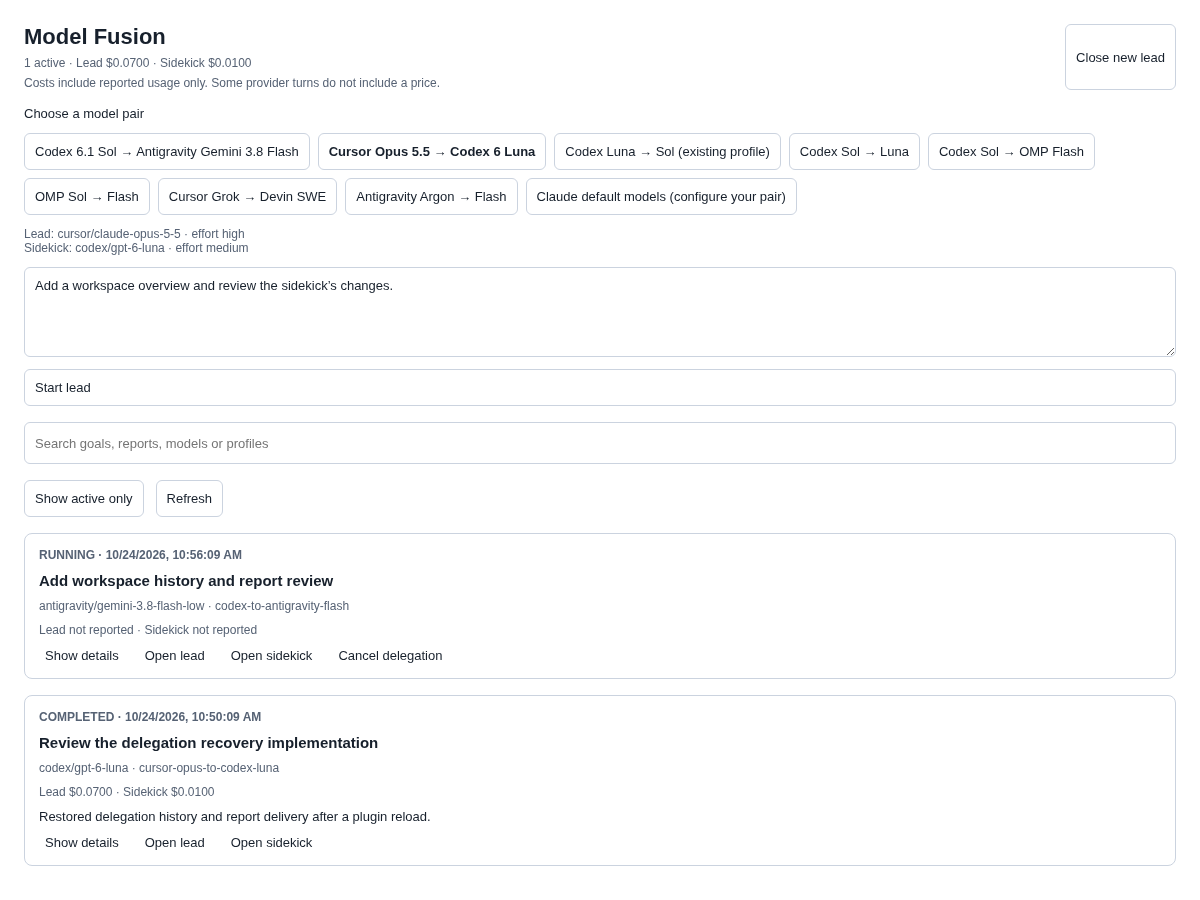
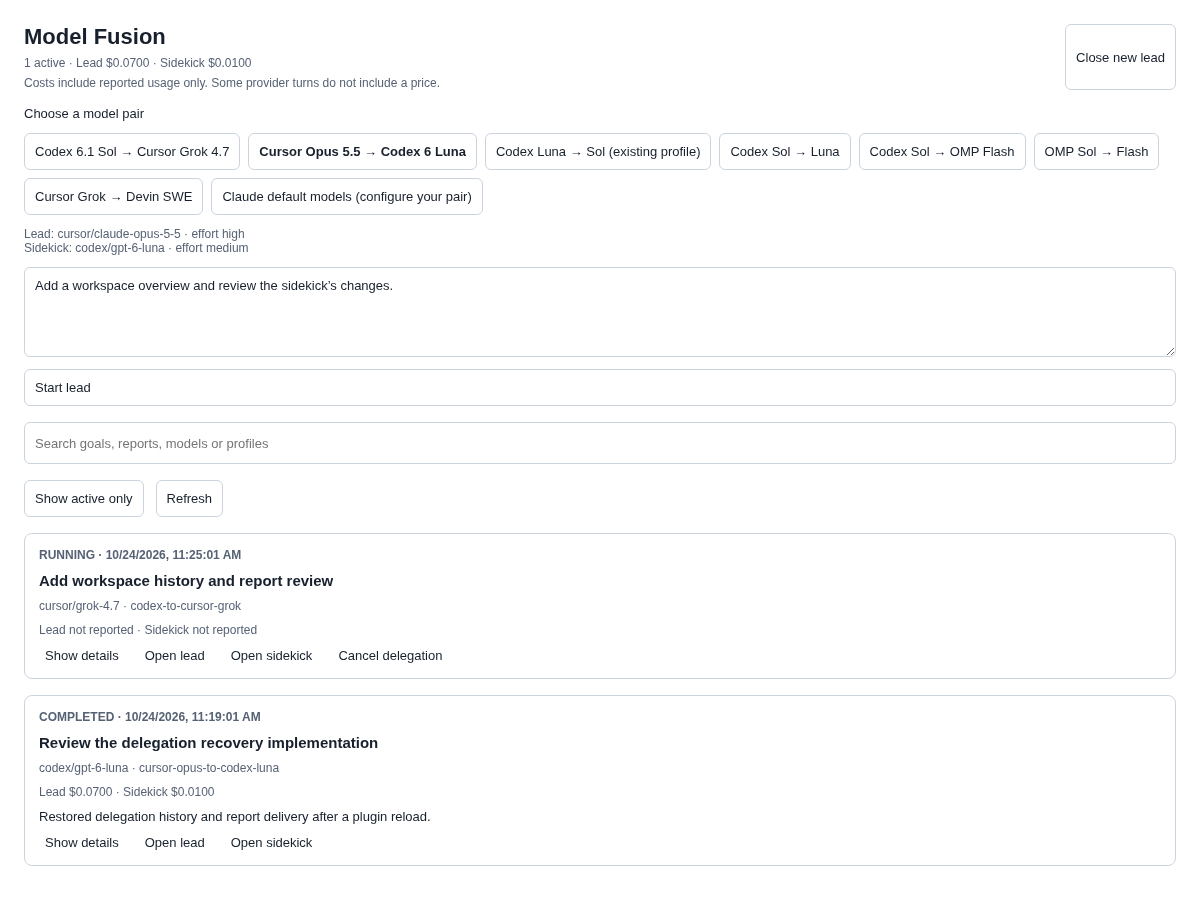
Keep Antigravity outside Fusion and default to Sol with Cursor Grok

diff --git a/index.server.ts b/index.server.ts
@@ -6,6 +6,7 @@ import { fusionSettings, DEFAULT_SETTINGS, BUILTIN_PROFILES, type FusionSettings
 import { delegateRpc, reportRpc, getSettingsRpc, getDelegationRpc, getWorkspaceRpc, createLeadRpc, delegationActionRpc } from "./shared/contracts";
 import { FusionState } from "./server/state";
 import { handleDelegation, handleSidekickReport, handleSidekickTurnEnded, recoverDelegations, publishDelegation, deliverReport, finishDelegation, checkProvider, modelConfig, markFinished, usesMcp, mcpToolPolicy } from "./server/orchestration";
+import { isAntigravity, requireFusionProvider, RETIRED_PROFILE_IDS } from "./shared/provider-policy";
 import { LABEL, isSidekick, isLead } from "./shared/labels";
 import { FusionMcpHttpServer } from "./server/mcp-server";
 import { getFencedBriefPrompt, parseFencedBrief } from "./server/fenced";
@@ -14,7 +15,9 @@ import { latestAssistantText, isMcpProviderRejection, timelineItem } from "./ser
 const MCP_PORT = Number(process.env.PASEO_MODEL_FUSION_PORT || 31337);
 const MCP_URL = "http://127.0.0.1:" + MCP_PORT + "/mcp";
 function withPresets(values: FusionSettings): FusionSettings {
-  return { ...values, profiles: [...new Map([...BUILTIN_PROFILES, ...values.profiles].map((profile) => [profile.id, profile])).values()] };
+  const allowed = values.profiles.filter((profile) => !isAntigravity(profile.lead) && !isAntigravity(profile.sidekick));
+  const profiles = [...new Map([...BUILTIN_PROFILES, ...allowed].map((profile) => [profile.id, profile])).values()];
+  return { ...values, profiles, default_profile: !RETIRED_PROFILE_IDS.includes(values.default_profile) && profiles.some((profile) => profile.id === values.default_profile) ? values.default_profile : DEFAULT_SETTINGS.default_profile };
 }
 export default function contribute(server: PluginServerContext) {
   const settingsHandle = server.registerSettings(fusionSettings);
@@ -55,6 +58,7 @@ export default function contribute(server: PluginServerContext) {
   async function delegate(paseo: PaseoApi, callerId: string, explicitId: string | undefined, brief: Parameters<typeof handleDelegation>[3]["brief"]) {
     await ready(paseo);
     const lead = await resolveLeadAgent(paseo, callerId, explicitId);
+    requireFusionProvider({ provider: lead.provider, model: lead.model });
     const profile = settings.profiles.find((item) => item.id === (lead.labels[LABEL.fusionProfile] || settings.default_profile));
     if (!profile || !lead.workspaceId) return { sidekickId: null, error: "The lead needs a workspace and Fusion profile" };
     return handleDelegation(paseo, lead.labels["fusion.transport"] === "fenced" ? { ...settings, use_mcp_delegation: false } : settings, state, {
@@ -80,7 +84,7 @@ export default function contribute(server: PluginServerContext) {
   const cleanups = [
     server.before("agent.create", async ({ request }, { paseo }) => {
       capture(paseo); await settingsReady;
-      if (!settings.enabled || !settings.use_mcp_delegation || request.config.internal ||
+      if (!settings.enabled || !settings.use_mcp_delegation || request.config.internal || isAntigravity({ provider: request.config.provider, model: request.config.model }) ||
         request.env?.PASEO_MODEL_FUSION_SIDEKICK === "1" || request.env?.PASEO_MODEL_FUSION_TEXT_ONLY === "1") return request;
       return { ...request, config: { ...request.config, mcpServers: {
         ...request.config.mcpServers, fusion: { type: "http", url: MCP_URL, alwaysLoad: true },
@@ -97,7 +101,7 @@ export default function contribute(server: PluginServerContext) {
       const snapshot = await paseo.agents.ref(event.agent.id).refresh();
       if (!snapshot) return;
       const agent = snapshot.agent;
-      if (!isLead(agent.labels) && !isSidekick(agent.labels)) return;
+      if ((!isLead(agent.labels) && !isSidekick(agent.labels)) || isAntigravity({ provider: agent.provider, model: agent.model })) return;
       const history = await paseo.agents.ref(agent.id).timeline.refetch({ direction: "tail", limit: 100 });
       const timeline = history.entries;
       const turnId = event.turnId || "timeline:" + history.epoch + ":" + history.entries.at(-1)?.seqEnd;

diff --git a/server/orchestration.ts b/server/orchestration.ts
@@ -1,4 +1,5 @@
 import { randomUUID } from "node:crypto";
+import { isAntigravity, requireFusionProvider, ANTIGRAVITY_POLICY_MESSAGE } from "../shared/provider-policy";
 import type { PaseoApi } from "./protocol-types";
 import type { FusionSettings, Profile, ProviderModel } from "../shared/settings";
 import { BriefSchema, ReportSchema, isActive, type Brief, type Report } from "../shared/models";
@@ -11,6 +12,7 @@ import { latestAssistantText } from "./timeline";
 const dispatches = new Map<string, Promise<unknown>>();
 const deliveries = new Map<string, Promise<void>>();
 export function modelConfig(model: ProviderModel) {
+  requireFusionProvider(model);
   return {
     provider: model.provider + (model.model ? "/" + model.model : ""),
     ...(model.modeId ? { modeId: model.modeId } : {}),
@@ -26,6 +28,7 @@ export function mcpToolPolicy(model: ProviderModel, tool: string) {
     ? { toolPolicy: { preapproved: [{ kind: "mcp" as const, server: "fusion", tool }] } } : {};
 }
 export async function checkProvider(paseo: PaseoApi, model: ProviderModel): Promise<void> {
+  requireFusionProvider(model);
   const available = await paseo.providers.listAvailable();
   const provider = available.providers.find((item) => item.provider === model.provider);
   if (!provider || !provider.available) throw new Error("Provider is unavailable: " + model.provider);
@@ -63,6 +66,8 @@ export async function deliverReport(paseo: PaseoApi, state: FusionState, item: D
   if (existing) return existing;
   const pending = (async () => {
     try {
+      const lead = await paseo.agents.ref(item.leadId).refresh();
+      if (lead) requireFusionProvider({ provider: lead.agent.provider, model: lead.agent.model });
       const report = item.report!;
       const message = [
         "## Sidekick report [" + item.briefId + "]",
@@ -118,6 +123,7 @@ export async function handleDelegation(
     if (!settings.enabled) return { sidekickId: null, error: "Fusion is disabled" };
     const brief = BriefSchema.parse(request.brief);
     const profile = request.profile;
+    if (isAntigravity(profile.lead) || isAntigravity(profile.sidekick)) return { sidekickId: null, error: ANTIGRAVITY_POLICY_MESSAGE };
     if (!usesMcp(profile.sidekick, profile, settings) && !settings.fallback_to_fenced) return { sidekickId: null, error: "This sidekick requires fenced delegation; enable Fallback to fenced or choose MCP transport." };
     if (profile.max_cost <= 0) return { sidekickId: null, error: "The sidekick cost budget is zero" };
     const signature = JSON.stringify(profile);
@@ -221,6 +227,10 @@ export async function handleSidekickTurnEnded(
 export async function recoverDelegations(paseo: PaseoApi, settings: FusionSettings, state: FusionState): Promise<void> {
   for (const item of state.getDelegations()) {
     try {
+      if (isActive(item.status) && isAntigravity({ provider: item.sidekickModel })) {
+        await finishDelegation(paseo, settings, state, item, "canceled", ANTIGRAVITY_POLICY_MESSAGE);
+        continue;
+      }
       if (isActive(item.status)) {
         if (dispatches.has(item.leadId) && item.status === "dispatched") continue;
         if (!item.sidekickId) {

diff --git a/shared/settings.ts b/shared/settings.ts
@@ -1,5 +1,6 @@
 import { defineSettings } from "@getpaseo/plugin";
 import { z } from "zod";
+import { RETIRED_PROFILE_IDS } from "./provider-policy";
 
 export const ProviderModelSchema = z.object({
   /** Paseo provider ID, e.g. "codex", "claude", "opencode". */
@@ -40,21 +41,20 @@ const pair = (id: string, name: string, leadProvider: string, leadModel: string 
 });
 
 export const BUILTIN_PROFILES: Profile[] = [
-  pair("codex-to-antigravity-flash", "Codex 6.1 Sol → Antigravity Gemini 3.8 Flash", "codex", "gpt-6.1-sol", "antigravity", "gemini-3.8-flash-low", "high"),
+  pair("codex-to-cursor-grok", "Codex 6.1 Sol → Cursor Grok 4.7", "codex", "gpt-6.1-sol", "cursor", "grok-4.7", "high", "medium"),
   pair("cursor-opus-to-codex-luna", "Cursor Opus 5.5 → Codex 6 Luna", "cursor", "claude-opus-5-5", "codex", "gpt-6-luna", "high", "medium"),
   pair("codex-gpt6luna-to-gpt61sol", "Codex Luna → Sol (existing profile)", "codex", "gpt-6-luna", "codex", "gpt-6.1-sol"),
   pair("codex-sol-to-luna", "Codex Sol → Luna", "codex", "gpt-6.1-sol", "codex", "gpt-6-luna"),
   pair("codex-to-omp-flash", "Codex Sol → OMP Flash", "codex", "gpt-6.1-sol", "omp", "cursor/gemini-3.8-flash"),
   pair("omp-sol-to-flash", "OMP Sol → Flash", "omp", "openai-codex/gpt-6-sol", "omp", "cursor/gemini-3.8-flash"),
   pair("cursor-to-devin", "Cursor Grok → Devin SWE", "cursor", "grok-4.7", "devin", "swe-1-6-slow"),
-  pair("antigravity-argon-to-flash", "Antigravity Argon → Flash", "antigravity", "gemini-4-argon-medium", "antigravity", "gemini-3.8-flash-low"),
   pair("claude-defaults", "Claude default models (configure your pair)", "claude", null, "claude", null),
 ];
 
 export const FusionSettingsSchema = z.object({
   enabled: z.boolean().default(true),
   profiles: z.array(ProfileSchema).min(1).default(BUILTIN_PROFILES),
-  default_profile: z.string().min(1).default("codex-to-antigravity-flash"),
+  default_profile: z.string().min(1).default("codex-to-cursor-grok"),
   use_mcp_delegation: z.boolean().default(true),
   fallback_to_fenced: z.boolean().default(true),
   show_composer_pill: z.boolean().default(true),
@@ -63,7 +63,7 @@ export const FusionSettingsSchema = z.object({
 }).superRefine((values, context) => {
   const ids = values.profiles.map((profile) => profile.id);
   if (new Set(ids).size !== ids.length) context.addIssue({ code: "custom", path: ["profiles"], message: "Profile IDs must be unique" });
-  if (![...ids, ...BUILTIN_PROFILES.map((profile) => profile.id)].includes(values.default_profile)) context.addIssue({
+  if (![...ids, ...BUILTIN_PROFILES.map((profile) => profile.id), ...RETIRED_PROFILE_IDS].includes(values.default_profile)) context.addIssue({
     code: "custom", path: ["default_profile"], message: "The default profile must exist",
   });
   if (values.enabled && !values.use_mcp_delegation && !values.fallback_to_fenced) context.addIssue({

diff --git a/shared/provider-policy.ts b/shared/provider-policy.ts
@@ -1,0 +1,13 @@
+// Consumer Antigravity subscriptions stay in the standalone agy CLI.
+// Google explicitly excludes third-party coding-agent wrappers, including subprocess drivers.
+// https://www.antigravity.google/docs/faq/
+export const ANTIGRAVITY_POLICY_MESSAGE = "Antigravity is excluded from Model Fusion. Use agy directly; choose Cursor Grok or a separately configured Gemini API provider for Fusion.";
+export const RETIRED_PROFILE_IDS = ["codex-to-antigravity-flash", "antigravity-argon-to-flash", "codex-to-cursor-flash"];
+export function isAntigravity(model: { provider: string; model?: string | null }): boolean {
+  return [model.provider, model.model || ""].some((path) =>
+    path.toLowerCase().split(/[/:]/).some((part) => ["antigravity", "google-antigravity", "agy"].includes(part.trim())),
+  );
+}
+export function requireFusionProvider(model: { provider: string; model?: string | null }): void {
+  if (isAntigravity(model)) throw new Error(ANTIGRAVITY_POLICY_MESSAGE);
+}

diff --git a/scripts/ui-preview.tsx b/scripts/ui-preview.tsx
@@ -25,8 +25,8 @@ const records = Array.from({ length: 32 }, (_, index) => ({
 if (listing) {
   const active = records[0];
   const completed = records[3];
-  active.profileId = "codex-to-antigravity-flash";
-  active.sidekickModel = "antigravity/gemini-3.8-flash-low";
+  active.profileId = "codex-to-cursor-grok";
+  active.sidekickModel = "cursor/grok-4.7";
   completed.profileId = "cursor-opus-to-codex-luna";
   completed.brief.goal = "Review the delegation recovery implementation";
   completed.report!.summary = "Restored delegation history and report delivery after a plugin reload.";

diff --git a/README.md b/README.md
@@ -26,25 +26,24 @@ The workspace panel shows active work and searchable, paginated history. Expand 
 
 ## Model pairs and effort
 
-The first pair is the default for fresh settings. Existing saved defaults and customized profiles are preserved. The new-lead form shows each side's model and effort before starting.
+The first pair is the default for fresh settings. Existing supported defaults and customized profiles are preserved; retired Antigravity defaults switch to Cursor Grok. The new-lead form shows each side's model and effort before starting.
 
 | Profile ID | Lead | Sidekick | Effort: lead / sidekick |
 | --- | --- | --- | --- |
-| `codex-to-antigravity-flash` | Codex GPT-6.1 Sol | Antigravity Gemini 3.8 Flash | **High / Low** |
+| `codex-to-cursor-grok` | Codex GPT-6.1 Sol | Cursor Grok 4.7 | **High / Medium** |
 | `cursor-opus-to-codex-luna` | Cursor Claude Opus 5.5 | Codex GPT-6 Luna | **High / Medium** |
 | `codex-to-omp-flash` | Codex GPT-6.1 Sol | OMP Gemini 3.8 Flash via Cursor | Provider defaults |
 | `codex-sol-to-luna` | Codex GPT-6.1 Sol | Codex GPT-6 Luna | Provider defaults |
 | `omp-sol-to-flash` | OMP GPT-6 Sol via Codex | OMP Gemini 3.8 Flash via Cursor | Provider defaults |
 | `cursor-to-devin` | Cursor Grok 4.7 | Devin SWE 1.6 Slow | Provider defaults |
-| `antigravity-argon-to-flash` | Antigravity Gemini 4 Argon Medium | Antigravity Gemini 3.8 Flash Low | Model variants |
 | `claude-defaults` | Native Claude default | Native Claude default | Provider defaults; requires Claude login |
 | `codex-gpt6luna-to-gpt61sol` | Codex GPT-6 Luna | Codex GPT-6.1 Sol | Existing compatible profile |
 
-Flash Low uses AGY's `gemini-3.8-flash-low` model variant. Codex and Cursor effort is set with `thinkingOptionId`. All pairs can be customized in **Settings → Plugins → Model Fusion**: provider, model, mode, effort, brief detail, exploration, pushback, transport, timeout, and reuse limits.
+The preferred Grok sidekick uses Cursor's `grok-4.7` model with `thinkingOptionId: "medium"`. Codex and Cursor effort is set with `thinkingOptionId`. All pairs can be customized in **Settings → Plugins → Model Fusion**: provider, model, mode, effort, brief detail, exploration, pushback, transport, timeout, and reuse limits.
 
 ## Delegation and provider compatibility
 
-`auto` selects MCP for Codex and OMP, and fenced text for Cursor, Devin, and Antigravity. A Codex lead can use MCP while its AGY sidekick returns a fenced report. Leads started in fenced mode also use fenced reports for their sidekicks. Explicit `mcp` or `fenced` profiles are also available.
+`auto` selects MCP for Codex and OMP, and fenced text for Cursor and Devin. A Codex lead can use MCP while its Cursor sidekick returns a fenced report. Leads started in fenced mode also use fenced reports for their sidekicks. Explicit `mcp` or `fenced` profiles are also available.
 
 MCP uses a loopback HTTP endpoint with `delegate` and `report` tools. Reports require the delegation ID and a unique report token. Codex receives approval for only the relevant Fusion tool. Providers without an exact-tool preapproval capability use their regular permission flow. Cursor and Devin native MCP were verified with individual tool approvals; their automatic transport uses fenced text for unattended brief/report exchanges.
 
@@ -54,14 +53,19 @@ MCP uses a loopback HTTP endpoint with `delegate` and `report` tools. Reports re
 | OMP `cursor/gemini-3.8-flash` | Passed | Passed |
 | Devin `swe-1-6-slow` | Passed with tool approvals | Passed |
 | Cursor `grok-4.7` | Passed with tool approvals | Passed |
-| Antigravity `gemini-3.8-flash-low` | Fusion tools unavailable through the current adapter | Passed |
 | Native Claude | Awaiting CLI installation and authentication | Awaiting CLI installation and authentication |
 
-These checks used real provider sessions on a1mini with Paseo 0.13.0-beta.1 on October 24, 2026. AGY authentication was also confirmed with a direct authenticated CLI response. Compatibility depends on the installed provider adapter, model access, and account. Cursor-hosted Opus uses Cursor authentication and does not require a native Claude login.
+These checks used real provider sessions on a1mini with Paseo 0.13.0-beta.1 on October 24, 2026. Compatibility depends on the installed provider adapter, model access, and account. Cursor-hosted Opus uses Cursor authentication and does not require a native Claude login.
 
 When MCP session startup is rejected, the plugin can create a labeled text-only successor with recent conversation context. This requires **Fallback to fenced**. A lead's fenced brief is processed once per turn; reports are validated against the current delegation.
 
-For API-created leads, set `fusion.role=lead` and `fusion.profile=<profile-id>`, then supply delegation instructions. The panel supplies these labels and instructions automatically. Paseo's create hook does not expose labels, so the MCP endpoint is attached to non-internal sessions and checks the lead label when dispatching. If a provider supplies no caller ID and several leads are active, pass `lead_agent_id` explicitly.
+For API-created leads, set `fusion.role=lead` and `fusion.profile=<profile-id>`, then supply delegation instructions. The panel supplies these labels and instructions automatically. Paseo's create hook does not expose labels, so the MCP endpoint is attached to eligible non-internal sessions (excluding Antigravity) and checks the lead label when dispatching. If a provider supplies no caller ID and several leads are active, pass `lead_agent_id` explicitly.
+
+## Antigravity stays outside Fusion
+
+Antigravity is intentionally excluded. Google's [current FAQ](https://www.antigravity.google/docs/faq/) excludes consumer-plan use through third-party coding-agent or application wrappers, including wrappers that launch the official `agy` binary. An [October 16 clarification](https://discuss.ai.google.dev/t/clarification-on-consumer-plan-policy-for-invoking-official-agy-via-local-subprocess/189905) says the current FAQ supersedes older forum replies. Use `agy` directly, or in Google's documented direct scripting and CI workflows, separately from Fusion.
+
+Fusion rejects recognized Antigravity provider routes, omits them from presets and probes, and filters saved profiles that use them. Retired defaults migrate to Cursor Grok. Cursor Grok uses Cursor authentication; OMP's `cursor/gemini-3.8-flash` route uses its Cursor backend. Neither preset uses an Antigravity subscription. The earlier AGY probe results remain historical records and do not establish permission to use that integration.
 
 ## Persistence, limits, and costs
 
@@ -89,8 +93,8 @@ After changing plugin source, run `npm run typecheck` and `paseo plugin reload p
 
 - [x] Workspace panel with active work, history, search, pagination, details, navigation, cancellation, and delivery retry.
 - [x] Durable delegation state and recovery across plugin reloads.
-- [x] Real MCP and fenced protocol checks for Codex, OMP, Devin, and Cursor; authenticated AGY fenced checks.
-- [x] Additional model pairs, including Sol/Flash and Cursor Opus/Codex Luna with explicit effort settings.
+- [x] Real MCP and fenced protocol checks for Codex, OMP, Devin, and Cursor.
+- [x] Additional model pairs, including Sol/Grok, OMP Flash, and Cursor Opus/Codex Luna with explicit effort settings.
 - [x] Lead and sidekick usage totals with partial-price handling.
 - [x] Token-scoped reports, reusable sidekicks, timeout handling, and timeline/composer UI.
 - [x] Listing screenshots packaged and declared in the manifest.
@@ -100,7 +104,7 @@ Outstanding validation:
 - [ ] Run native Claude MCP and fenced checks after installing and authenticating its CLI on a1mini. Its profile and orchestration are implemented.
 - [ ] Confirm the panel visually in the native Paseo desktop and mobile clients. Browser fixture checks cover its real components and actions, with a React Native HTML shim; they do not exercise the full native app shell.
 
-No unimplemented feature remains from the original planned-feature list. AGY native MCP requires support from its provider adapter; fenced transport is available now.
+No unimplemented feature remains from the original planned-feature list. Antigravity support has been withdrawn under the provider-use policy above.
 
 ## Development checks
 
@@ -109,13 +113,12 @@ npm run typecheck
 npm test
 # Real-provider checks: consume provider usage and archive their own probe sessions.
 node scripts/provider-smoke.cjs omp
-node scripts/provider-smoke.cjs antigravity fenced
 node scripts/integration-smoke.cjs
 # Fixture-only component preview:
 npm run preview
 ```
 
-Live scripts require the Paseo 0.13.0-beta.1 CLI and a running local daemon. Protocol results are recorded in `docs/provider-verification.json`; integration results in `docs/integration-verification.json`. The default integration check exercises the two preferred pairs, sidekick reuse, lead review, workspace isolation, token redaction, and history after reload. The preview serves synthetic data on localhost:31339, performs no real agent actions, and uses the installed CLI's bundler.
+Live scripts require the Paseo 0.13.0-beta.1 CLI and a running local daemon. Protocol results are recorded in `docs/provider-verification.json`; the preferred Sol/Grok integration results are in `docs/integration-verification.json`. Earlier Opus/Luna results and the withdrawn AGY probes are preserved in `docs/integration-verification-history.json`. The default integration check exercises the two preferred pairs, sidekick reuse, lead review, workspace isolation, token redaction, and history after reload. The preview serves synthetic data on localhost:31339, performs no real agent actions, and uses the installed CLI's bundler.
 
 ## Credits
 

diff --git a/OVERVIEW.md b/OVERVIEW.md
@@ -4,8 +4,10 @@ Pair a lead coding model with an implementation sidekick in Paseo. The lead plan
 
 Open Model Fusion from the Command Center in a workspace. Start a lead with a model-pair preset, browse active and past delegations, inspect reports and usage, open either agent, cancel work, or retry report delivery. Composer pills and timeline cards show progress.
 
-Requires Paseo 0.13.0-beta.1 or newer and authenticated providers. Presets include Codex 6.1 Sol at high effort with Antigravity Gemini 3.8 Flash Low, and Cursor Opus 5.5 at high effort with Codex 6 Luna at medium effort. Provider, model, effort, brief style, transport, timeout, reuse budget, and history retention are configurable.
+Requires Paseo 0.13.0-beta.1 or newer and authenticated providers. Presets include Codex 6.1 Sol at high effort with Cursor Grok 4.7 at medium effort, and Cursor Opus 5.5 at high effort with Codex 6 Luna at medium effort. Provider, model, effort, brief style, transport, timeout, reuse budget, and history retention are configurable.
 
-The plugin sends briefs and reports to the selected providers through their Paseo sessions. It saves delegation state and usage receipts on the daemon host and restores them after reload. MCP tools use a loopback HTTP endpoint and per-delegation report tokens. Cursor, Devin, and Antigravity use fenced text automatically; native Claude requires its own login and awaits live verification.
+The plugin sends briefs and reports to the selected providers through their Paseo sessions. It saves delegation state and usage receipts on the daemon host and restores them after reload. MCP tools use a loopback HTTP endpoint and per-delegation report tokens. Cursor and Devin use fenced text automatically; native Claude requires its own login and awaits live verification.
+
+Antigravity subscriptions are excluded from this plugin. Use the official agy CLI separately. Cursor models use Cursor authentication, and Google's current consumer-plan FAQ does not support wrapping agy inside third-party coding agents.
 
 Usage totals include reported lead and sidekick prices; some providers omit prices. Reuse limits apply between briefs, and report delivery can repeat after a crash. Native desktop and mobile visual verification remains outstanding.
